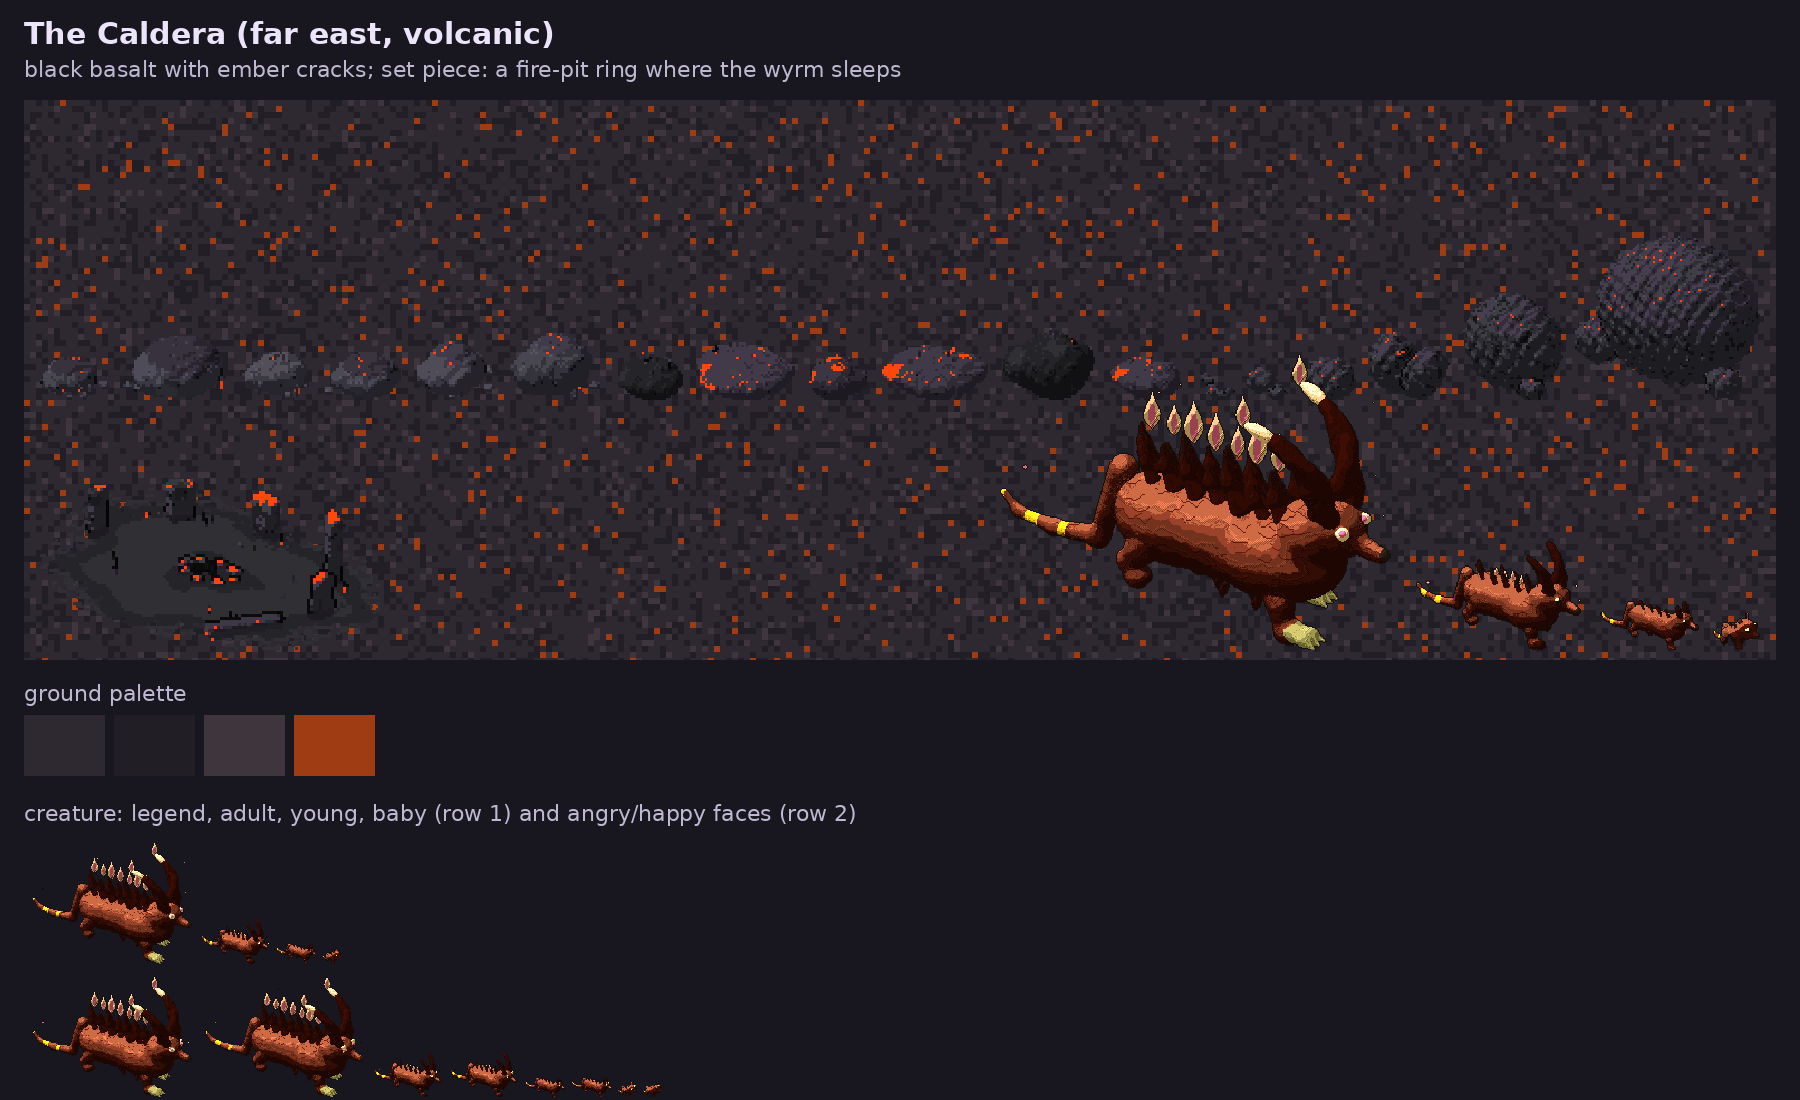
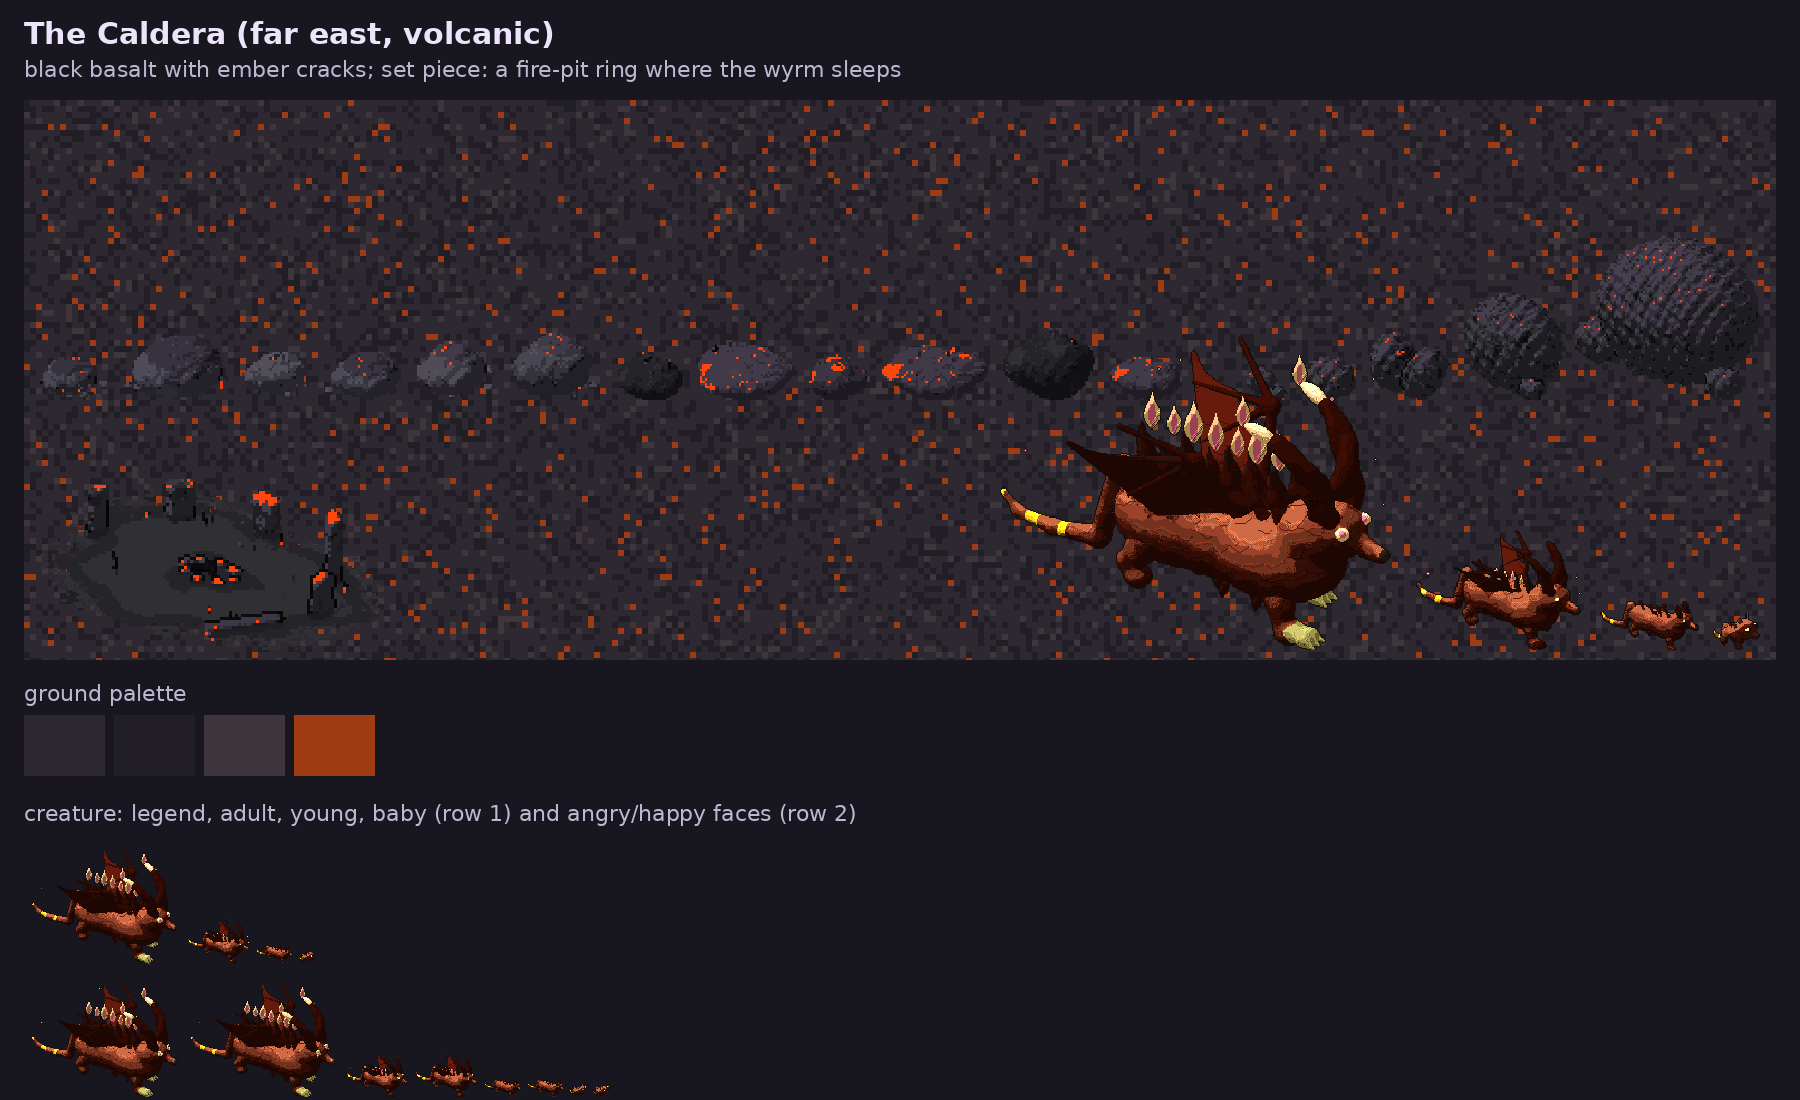
East concepts: Ed's decisions recorded; the Cinder Wyrm redrawn with wings
Ed (2026-10-11): all four kinds and areas as drawn; the wyrm grows wings (the new wings evolution
feature: nubs on the young, full wings from adult up); the vulture stays on the raven builder.

Claude-Session: https://claude.ai/code/session_014acVVHVwbRfeD46pBsk634

diff --git a/previews/ed/east/NOTES.md b/previews/ed/east/NOTES.md
@@ -1,5 +1,10 @@
 # East biome: concept sheets (art builder 4, 2026-10-11)
 
+## Ed's decisions (2026-10-11)
+1. **All four kinds and their areas: yes, as drawn.**
+2. **The Cinder Wyrm grows wings.** They're a new evolution feature in the art kit (`wings`, art/creatures3d.js; PR into claude/prototype): nubs on the young, full leathery wings from adult up, the legend's biggest. `wyrm.png` and `area-wyrm.png` are redrawn with them.
+3. **The vulture stays on the raven builder for now**; no new bird builder.
+
 East runs rockier, then volcanic, further out. South-east blends into badlands. These are concepts only: nothing here is wired into the game.
 
 - The creatures are drawn by the real art generator, as genome records on existing templates and builders (`genomes.json`; `GENOME='…' node art/preview.mjs genome`).
@@ -27,13 +32,13 @@ East runs rockier, then volcanic, further out. South-east blends into badlands. 
 
 ## Cinder Wyrm: the Caldera (far east, volcanic; the fantastical kind). Phase 4.
 - **Feel:** a small dragon. The baby is a lizard with a ridge. From adult on, its crest burns with flame wisps. Its legend has twisted horns, a full fiery crest, claws and glowing eyes.
-- **Note:** it's wingless here (the quadruped template has no wings). Wings would mean a new feature kind on the evolution kit.
+- **Wings** (Ed's decision): the new `wings` evolution feature. Folded nubs on the young; leathery wings, bones with a scalloped membrane, from adult up; the legend's biggest.
 - **Fights:** spits embers (a short-range `shot`). Its signature move: it breathes a flame line (the long beam, telegraphed). Its legend breathes the line, then a fire ring round itself (the upheaval ring).
 - **Sigil idea:** a coiled wyrm, nose to tail, with a single flame at its crest.
 - **Area:** black basalt with ember cracks, cinder ash on the boulders. Set piece: a fire-pit ring where the wyrm sleeps.
 
 ## What a real build would need
-- **New builders or features:** a bald-headed vulture bird; wings as an evolution feature, for the wyrm.
+- **New builders or features:** the wyrm's wings are done (the `wings` feature). A bald-headed vulture bird is not wanted for now (Ed).
 - **Area recipes:** four new ones (`art/recipes/`) with ground genomes in these palettes.
 - **Flora:** rock-garden plants (saxifrage, thrift, dwarf pine) for the scree, and nothing living in the caldera except ember lichen.
 - **Sigils:** in `art/sigils.js`.
